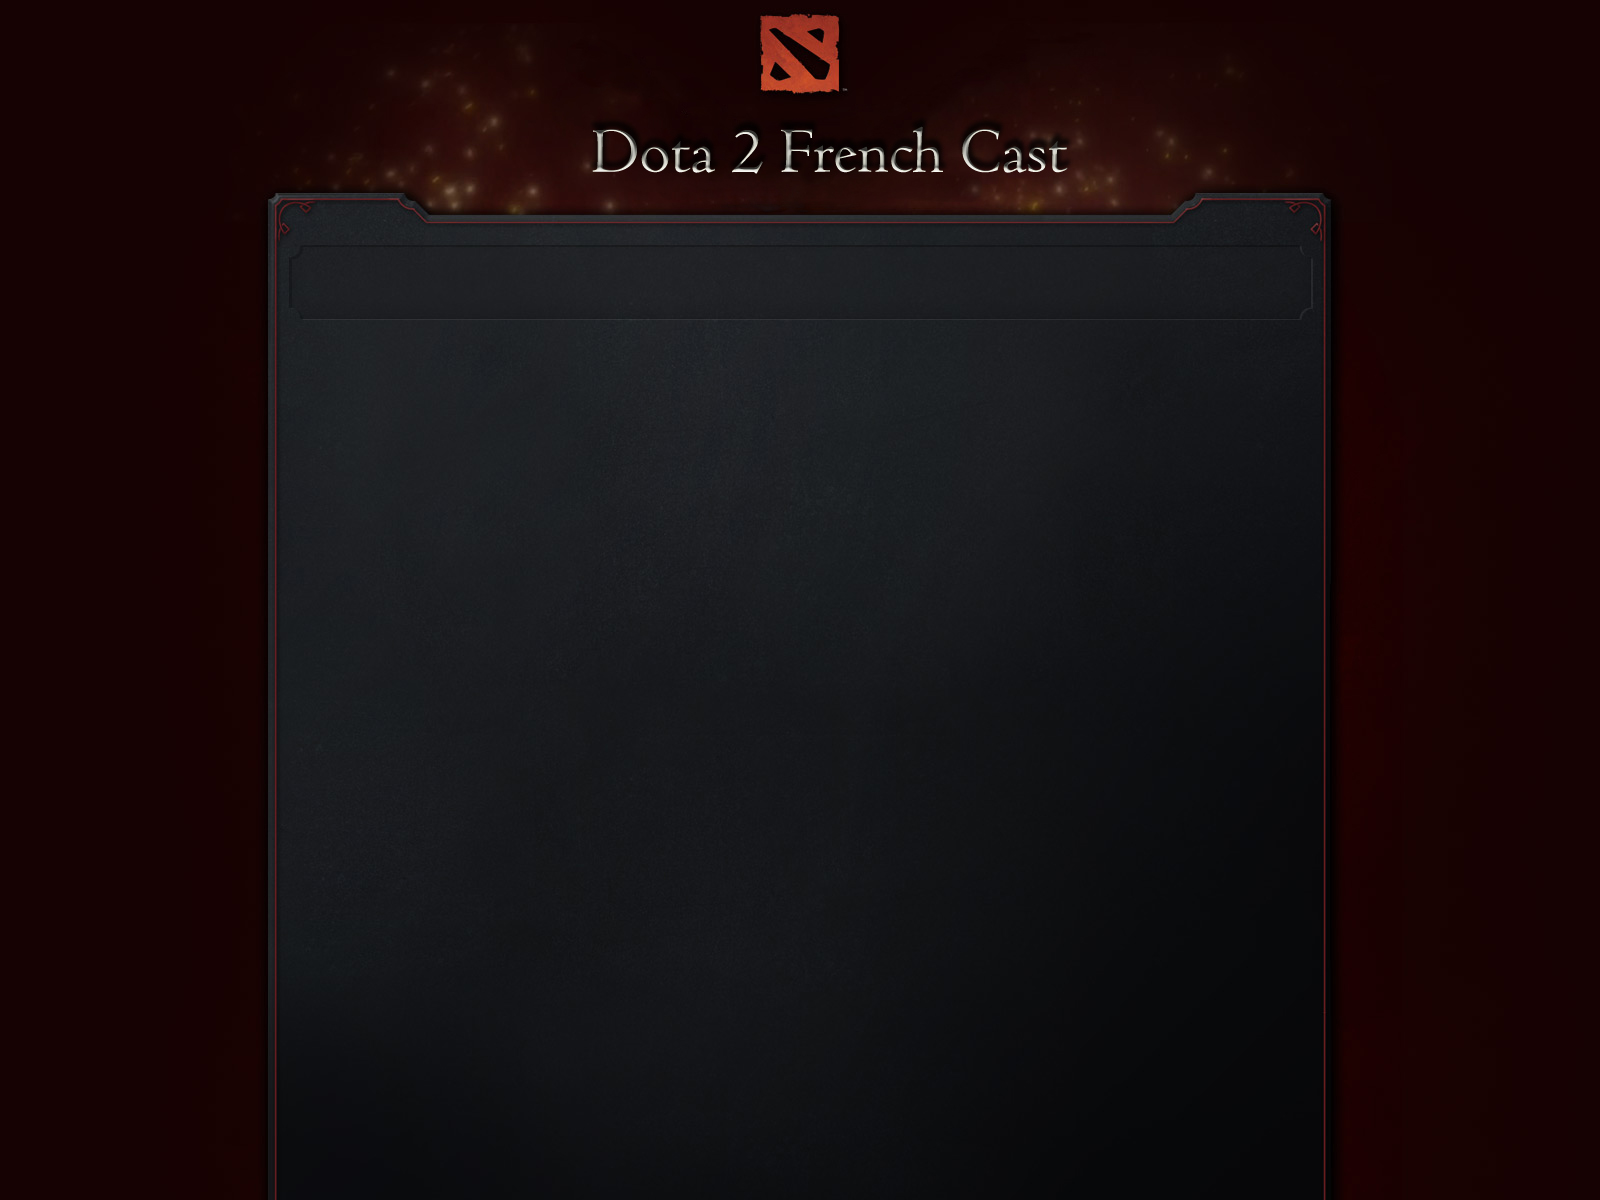
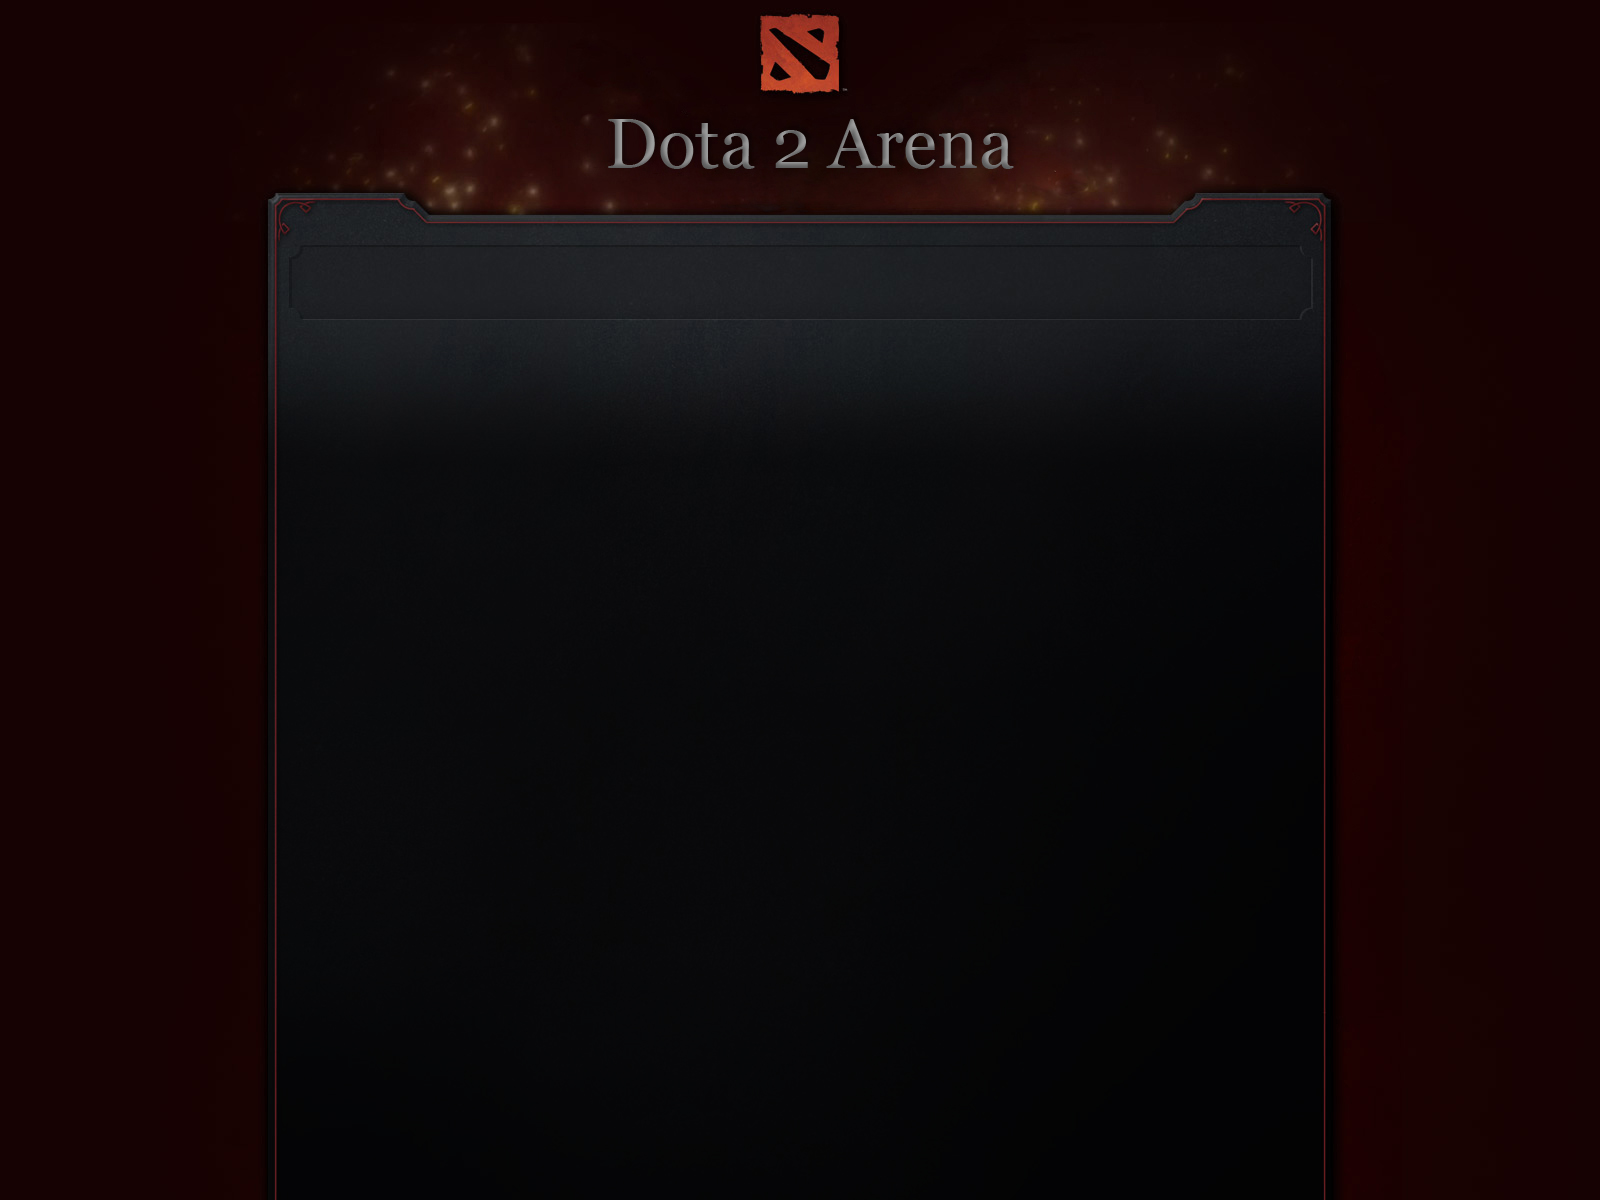
Ajout lien sur les liens, le nombre de commentaire et le message quand pas connecter avant l'ajout de commentaire.

Changed region(s): [[0.375, 0.0925, 0.6875, 0.1542], [0.1562, 0.4008, 0.1875, 0.5858], [0.4062, 0.37, 0.4688, 0.4008]]

diff --git a/templates/layout.html b/templates/layout.html
@@ -1,42 +1,42 @@
 <!DOCTYPE html>
-<html xmlns="http://www.w3.org/1999/xhtml" xml:lang="fr" >
+<html lang="fr">	
   <head>
-    <title>Dota 2 Arena</title>
-    <meta charset="utf-8" />
-    <link rel=stylesheet type=text/css href="{{ url_for('static', filename='style.css') }}">
-    </head>
-  
+    <meta charset="UTF-8">
+    <title>Dota 2 Arena</title> 
+    <link rel="stylesheet" type="text/css" href="{{ url_for('static', filename='wait.css') }}" />
+  </head>
   <body>
-    <div id="en_tete">
-      
+    <section id="contenu">
+      <div id="fond">
+      <div id="menu">
+	<div id="menu-accueil">
+	  <a href="{{ url_for('default') }}">Accueil</a>
+	</div>
+	<div id="menu-guide">
+	  <a href="{{ url_for('guide') }}">Guides</a>
+	</div>
+	<div id="menu-hero">
+	  <a href="{{ url_for('hero') }}">Heros</a>
+	</div>
+	<div id="menu-item">
+	  <a href="{{ url_for('item') }}">Items</a>
+	</div>
+	<div id="menu-contact">
+	  <a href="http://www.infosgeek.com/contact.html">Nous Contacter</a>
+	</div>
+      </div>
+      <div id="corps">
+	{% for message in get_flashed_messages() %}
+	<div class="flash">{{ message }}</div>
+	{% endfor %}
+	{% block body %}{% endblock %}
+      </div>
+    <div id="footer">
+      <div id="footer-img">
+	<img src="{{ url_for('static', filename='images/design/footer.png') }}"\>
+      </div>			
     </div>
-    
-    <div id="menu">
-      <a href="{{ url_for('default') }}">Accueil</a> | 
-      <a href="{{ url_for('guide') }}">Guides</a> | 
-      <a href="{{ url_for('hero') }}">Heros</a> | 
-      <a href="{{ url_for('item') }}">Items</a>
     </div>
-    
-    <div id="connection">
-      {% if not session.logged_in %}
-      <a href="{{ url_for('login') }}">Connectez-vous</a>
-      <a href="{{ url_for('add_user') }}">Inscription</a>
-      {% else %}
-      <a href="{{ url_for('logout') }}">Deconnexion</a>
-      {% endif %}
-    </div> 
-    
-    <div id="corps">
-      {% for message in get_flashed_messages() %}
-      <div class=flash>{{ message }}</div>
-      {% endfor %}
-      {% block body %}{% endblock %}
-    </div>
-    
-    <div id="pied_de_page">
-      
-    </div>
-    
+    </section>
   </body>
 </html>

diff --git a/static/wait.css b/static/wait.css
@@ -156,7 +156,7 @@ h3 {
 /*   Footer    */
 #footer {
     padding-top: 50px;
-    background-image: url(http://media.steampowered.com/apps/dota2/images/international/bottom_bg.jpg);
+    background-image: url('images/design/bottom_bg.jpg');
     background-position: top center;
     background-repeat: no-repeat;
     margin: auto;
